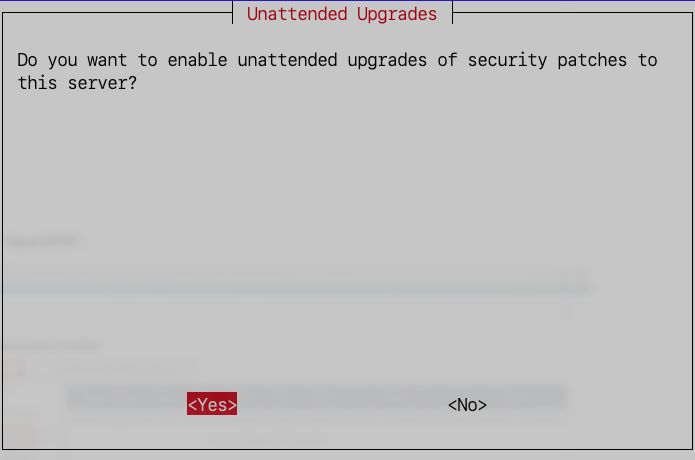
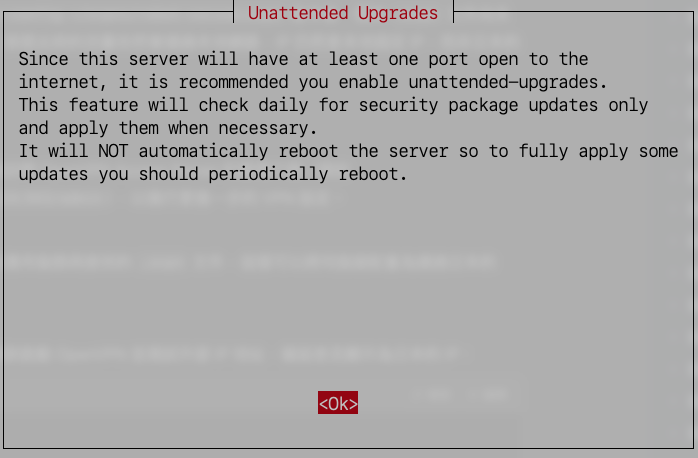
Commit on 2025-01-22 01:11:16

Changed region(s): [[0.0, 0.0, 1.0, 1.0], [0.0302, 0.8253, 0.7554, 1.0], [0.0, 0.9476, 0.0302, 0.9782]]

diff --git a/D29_VPN/03-1_OpenVPN.md b/D29_VPN/03-1_OpenVPN.md
@@ -158,15 +158,25 @@ _關於選項可參考說明_
 
 <br>
 
-8. 點擊 `Yes`。
+8. 點擊 `Ok`。
 
    ![](images/img_47.png)
 
 <br>
 
+9. 選取 `Yes`。
+
+   ![](images/img_64.png)
+
+<br>
+
 ## 完成階段工作
 
-1. 會提示接下來的指令 `pivpn add`。
+_這裡在前面步驟設定為 `Yes` 或 `No` 不同狀況下會略有不同_
+
+<br>
+
+1. 點擊 `Ok`；這裡提示後續的指令 `pivpn add`。
 
    ![](images/img_48.png)
 
